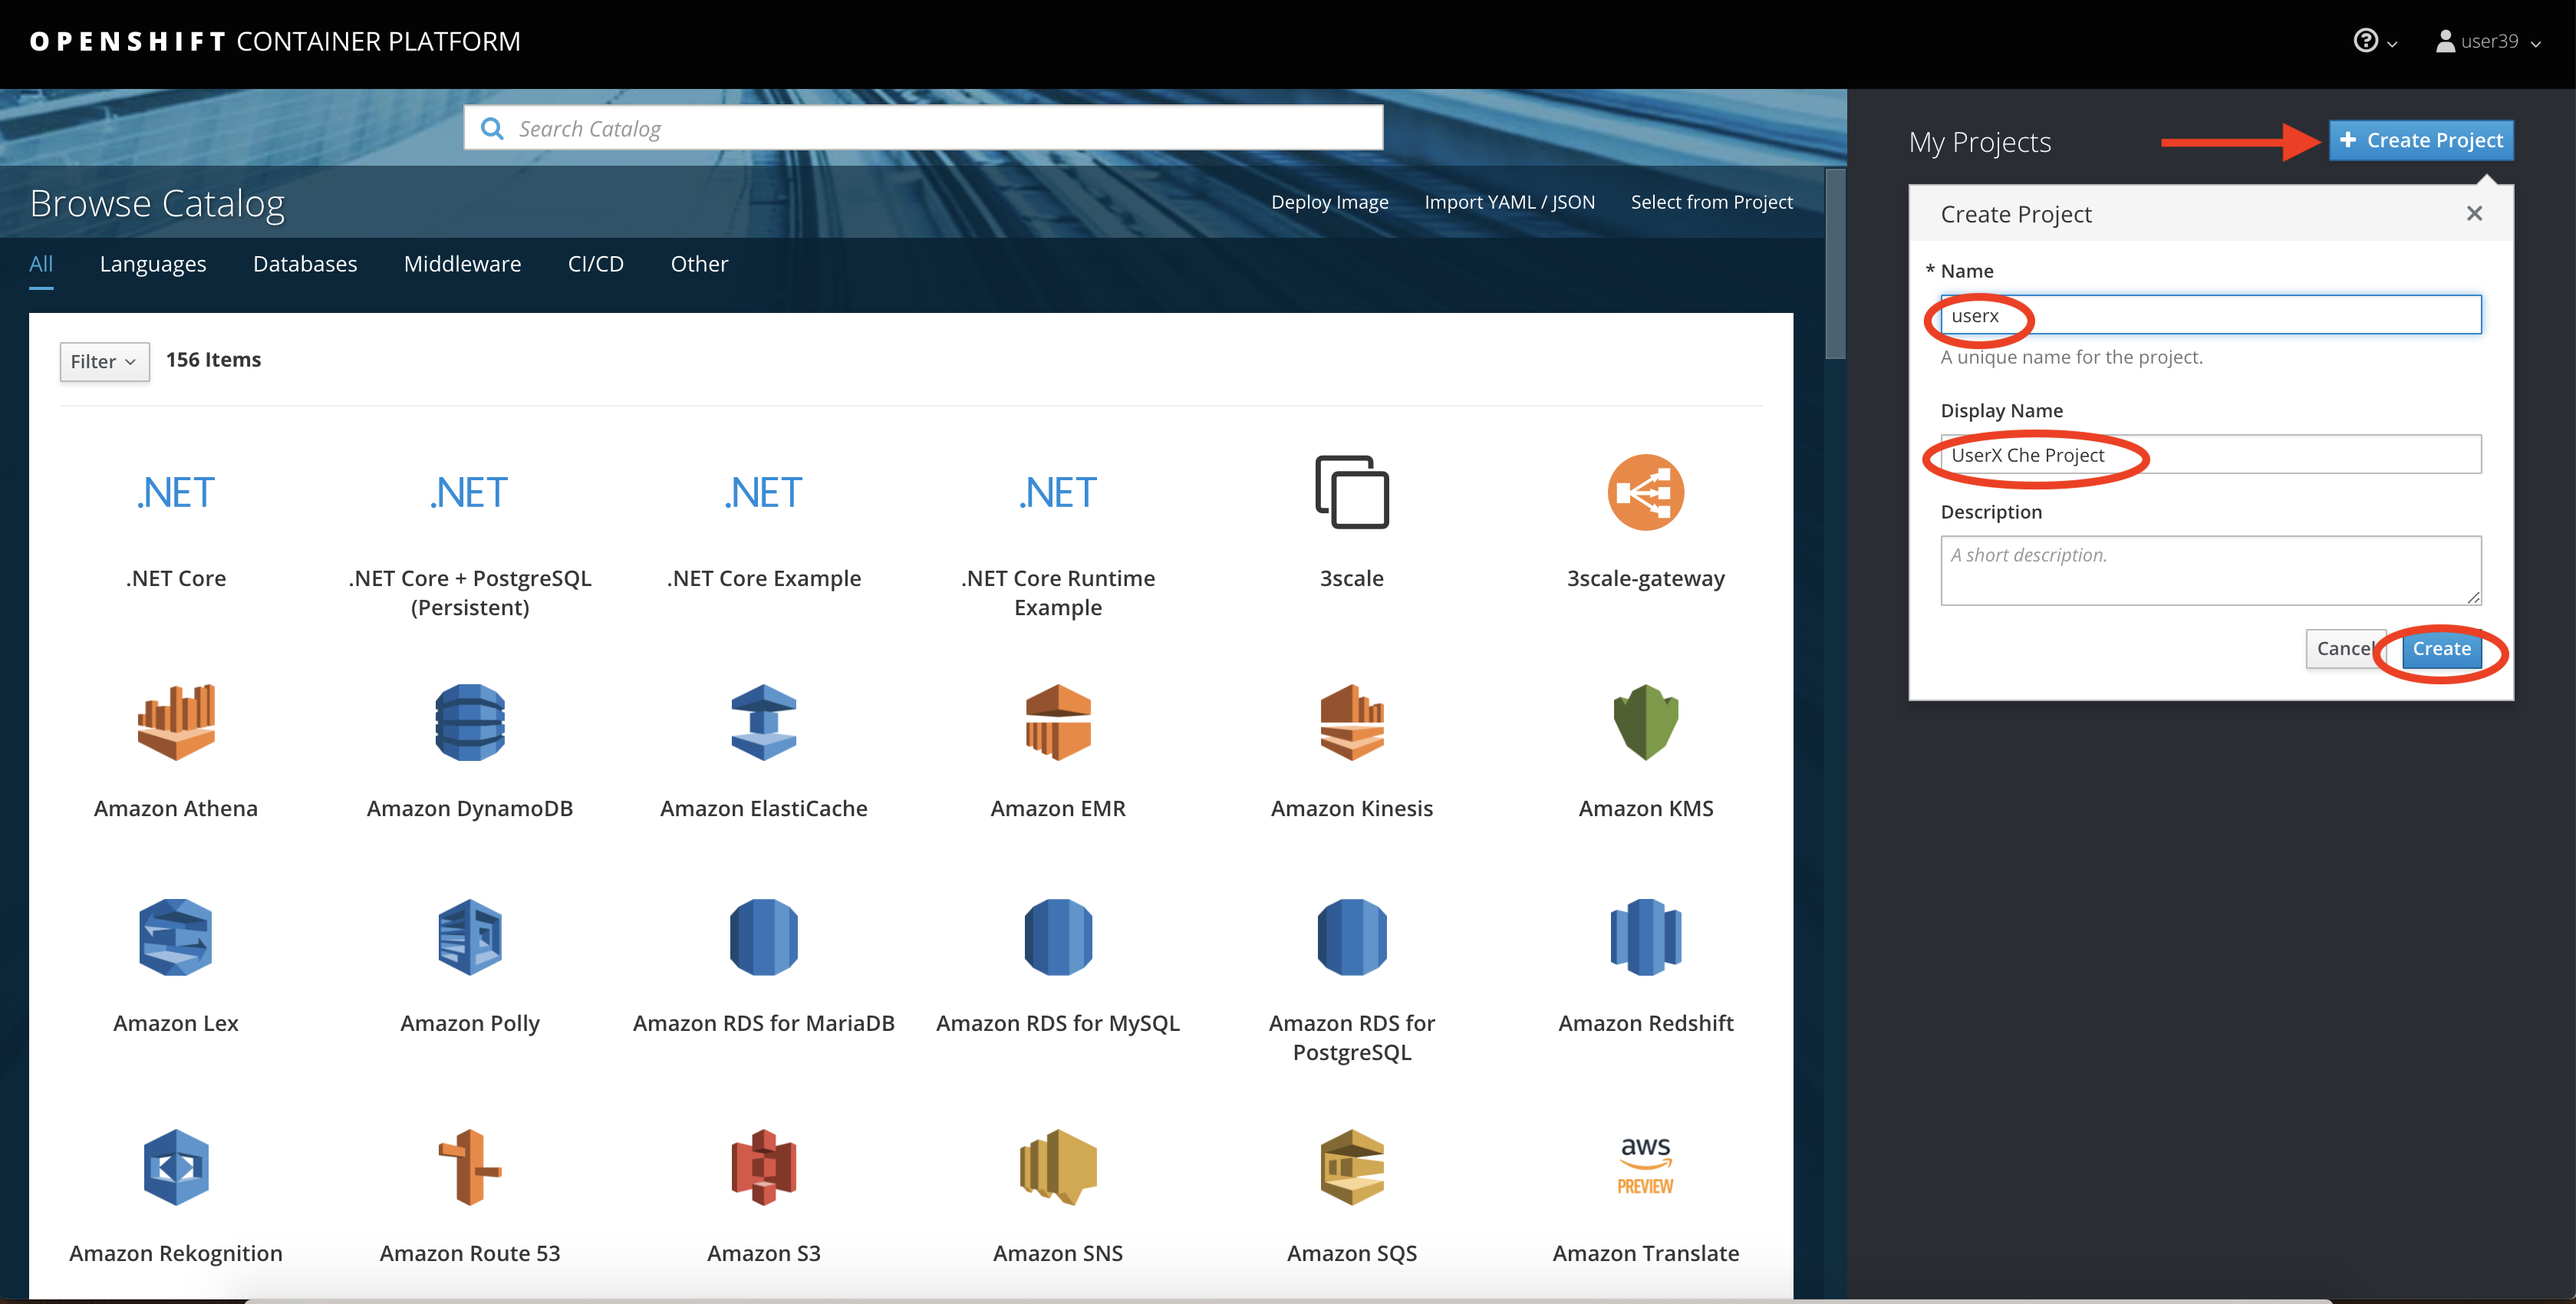
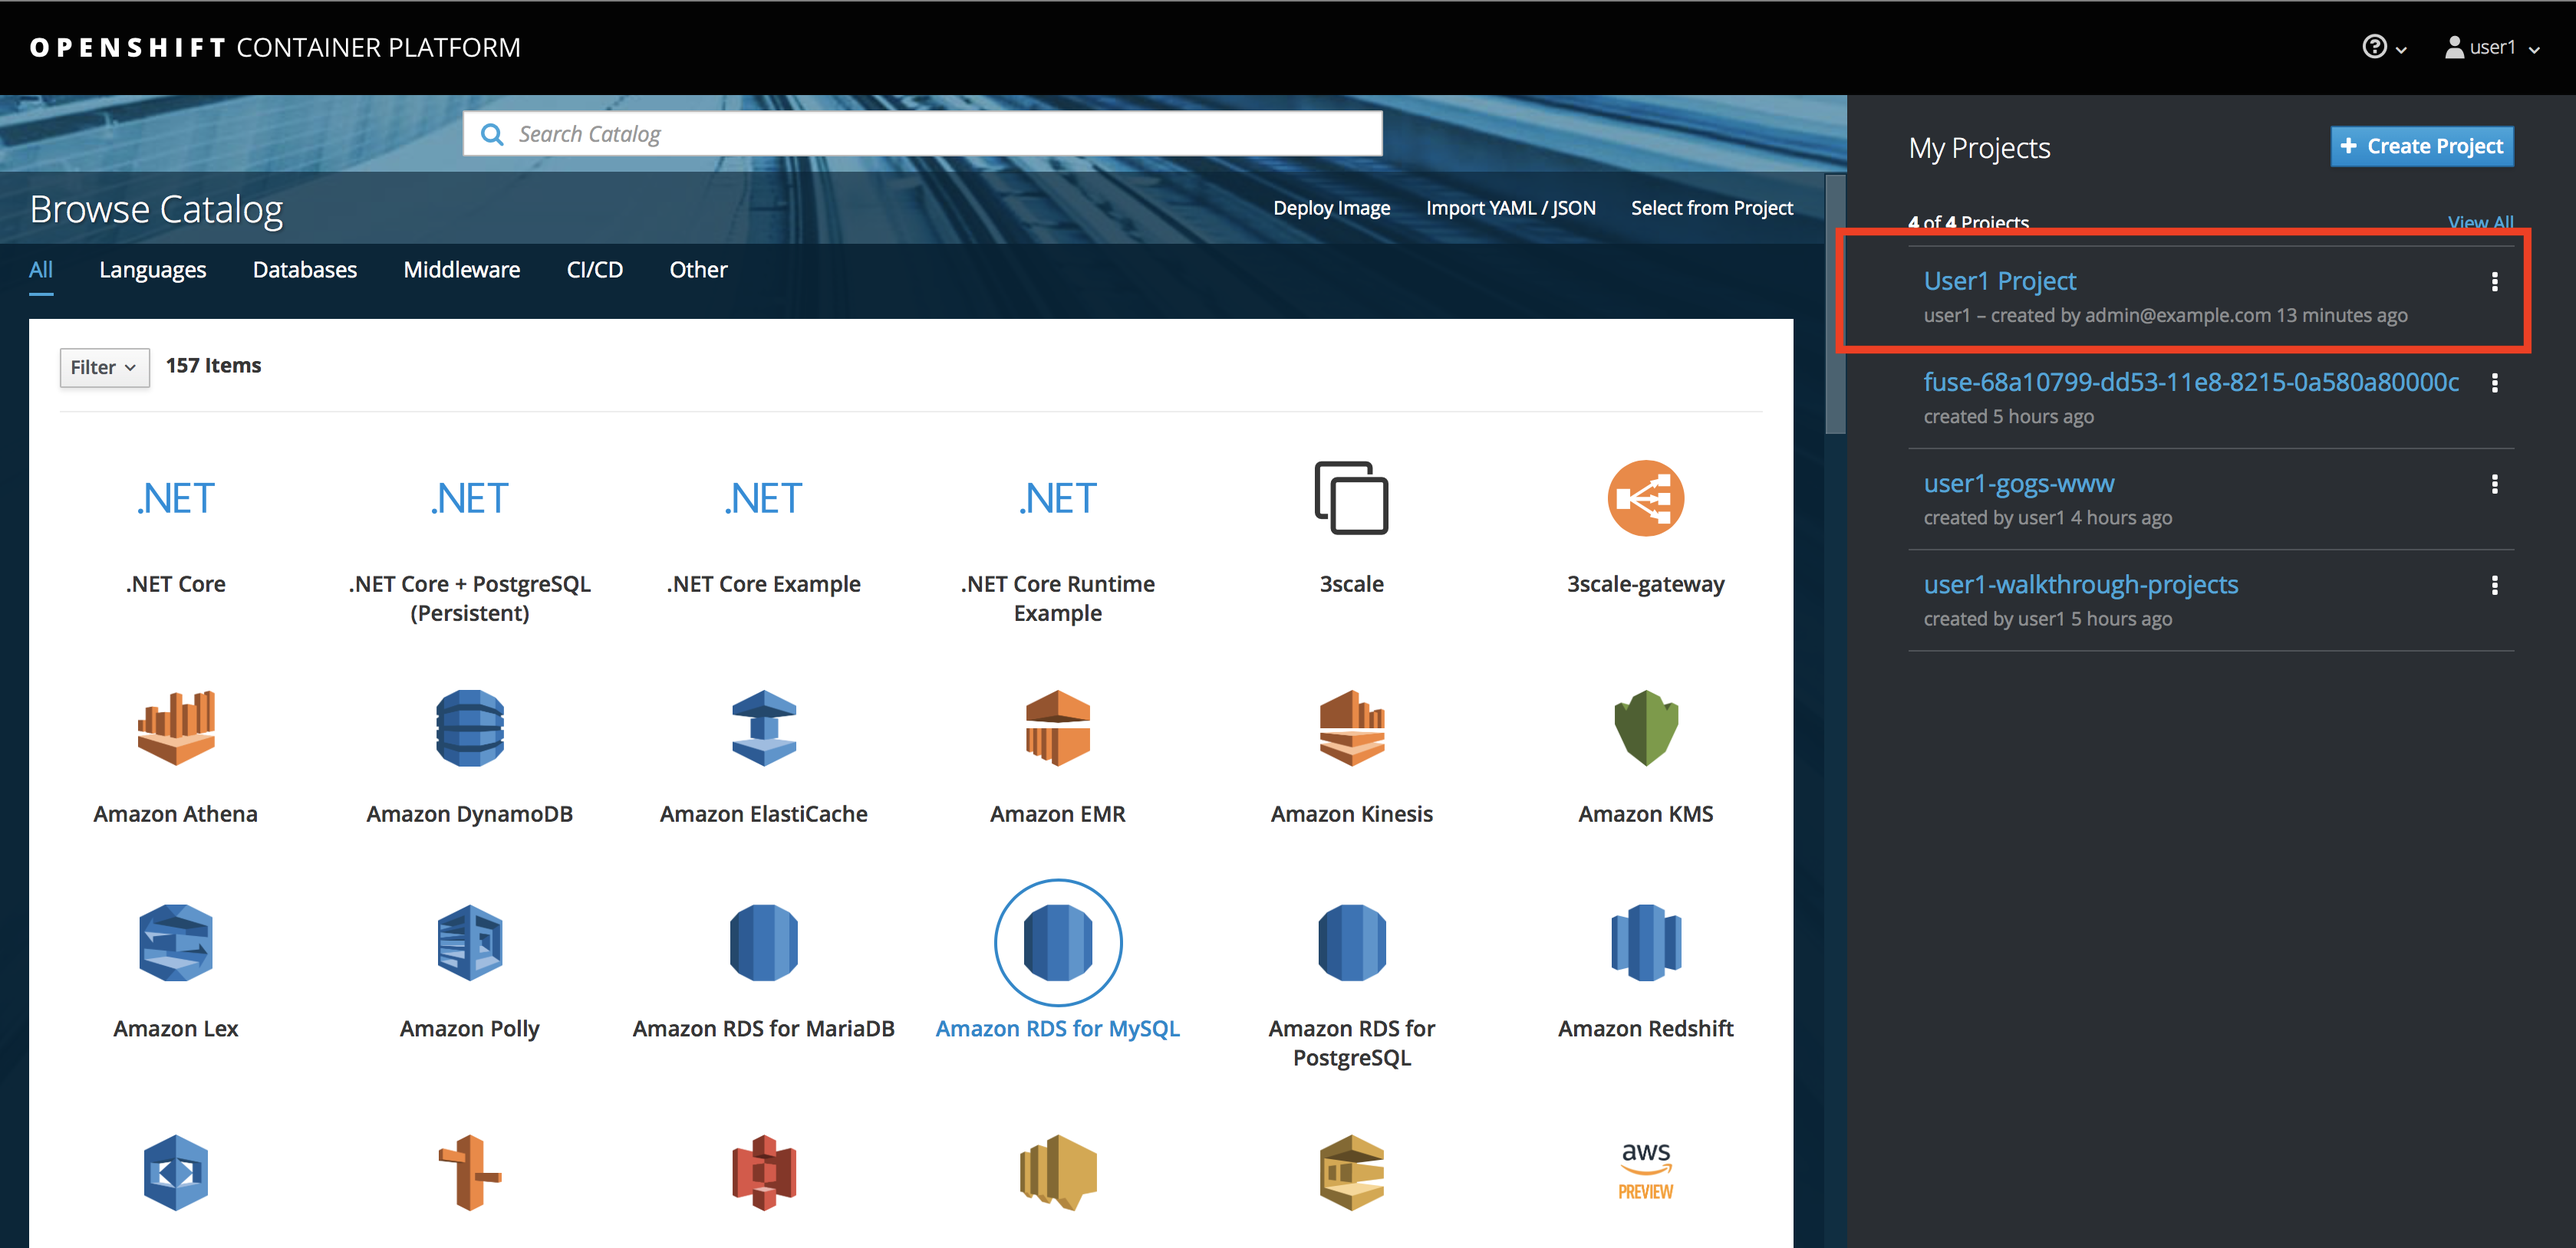
Fixed #180

diff --git a/docs/labs/developer-track/lab03/README.md b/docs/labs/developer-track/lab03/README.md
@@ -85,7 +85,7 @@ Login to the Red Hat Solution Explorer, here you will find the link to Che.
     https://dil.opentry.me/console
     ```
 
-1. Click on **Create Project** and enter a unique name using your username e.g. `user39`.
+1. Click on your unique namenamspace to enter your workspace e.g. `user39`.
 
     ![00-create-ocp-project.png](images/00-create-ocp-project.png "Create Project")
 
